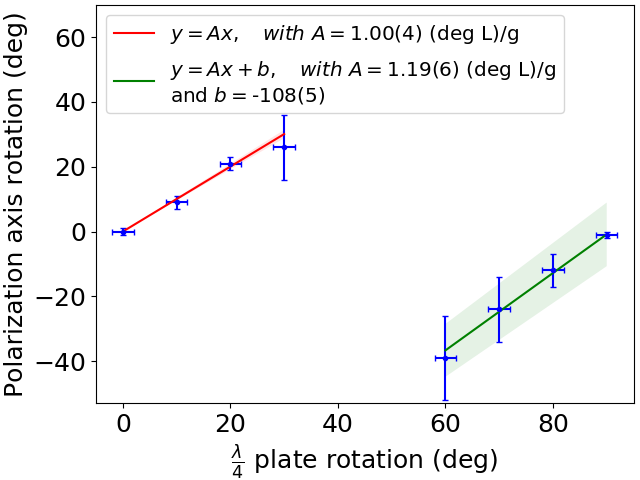
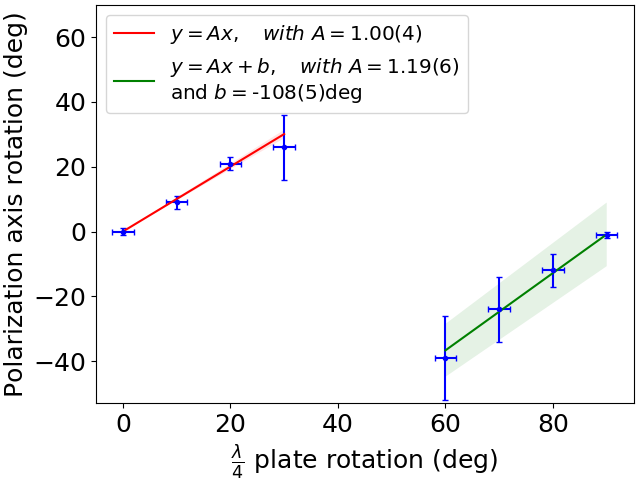
Versuch 8

Changed region(s): [[0.25, 0.125, 0.875, 0.2188], [0.6562, 0.0312, 0.8125, 0.0938]]

diff --git a/Versuch8/scripts/gasthermometer.py b/Versuch8/scripts/gasthermometer.py
@@ -22,8 +22,8 @@ def get_settings():
     
     '''----- sets1: Volume ------------'''
     sets1 = general_sets.clone()
-    sets1.x_label = 'Solution height (dm)'
-    sets1.y_label = 'Polarization axis rotation (deg)'
+    sets1.x_label = r'$t_{gas\ thermometer}$ in $^{\circ}C$'
+    sets1.y_label = r'$t_{mercury\ thermomether}$ in $^{\circ}C$'
     
     '''----- sets2: Concentration -----'''
     sets2 = general_sets.clone()
@@ -33,60 +33,20 @@ def get_settings():
     return sets1, sets2
 
 def linear(B,x):
-    return B[0]*x
+    return B[0]*x + B[1]
 
 def get_data():
-    xls = pd.ExcelFile("../datasets/sugar-corr.xlsx")
-    df1 = pd.read_excel(xls, sheet_name = 'Volume')
-    df2 = pd.read_excel(xls, sheet_name = 'Concentration')
+    xls = pd.ExcelFile("../datasets/gasthermometer.xlsx")
+    df1 = pd.read_excel(xls, sheet_name = 'Heat up')
+    df2 = pd.read_excel(xls, sheet_name = 'Cool down')
     #return df1.drop(df1.index[0]), df2.drop(df2.index[0])
     return df1, df2
 
-def plot_vol(sets, df):
-    l, l_err = 0.1*np.array(df['len in cm']), 0.1*np.array(df['len_err in cm']) #converts from cm to dm
-    rot, rot_err = np.array(df['rot']), np.array(df['rot_err'])
 
-    #ODR fitting
-    linear_model = odrpack.Model(linear)
-    data = odrpack.RealData(l[1:], rot[1:], sx=l_err[1:], sy=rot_err[1:])
-    myodr = odrpack.ODR(data,linear_model, beta0=[3.1])
-    output = myodr.run()
-    params_n, params_s = output.beta, output.sd_beta
-    params = unp.uarray(params_n, params_s)
-    #print (params)
-
-    #popt, cov = curve_fit(ft.linear1, l, rot, sigma = rot_err, absolute_sigma = True)
-    x_fit = np.linspace(min(l), max(l)*1.1, 1000)
-    y_fit = linear(params_n, x_fit)
-    y_fit_up = linear(params_n + params_s, x_fit)
-    y_fit_down = linear(params_n - params_s, x_fit)
-    #y_fit_c = ft.linear1(x_fit, *popt)
-    #y_fit_c_up = ft.linear1(x_fit, *(popt + np.sqrt(cov[0][0])))
-    #y_fit_c_down = ft.linear1(x_fit, *(popt - np.sqrt(cov[0][0])))
+def plot_uncorrected_fit(sets, df):
+    t_th, t_th_err = np.array(df['t_th'])[:-1], np.array(df['t_th_err'])[:-1]
+    t_gas, t_gas_err = np.array(df['t_gas'])[:-1], np.array(df['t_gas_err'])[:-1]
     
-    fmtr = ShorthandFormatter()
-    label_str = fmtr.format('{0:.1u}', params[0])
-    sets.graph_label = ['',r"$y=Ax,\quad with\ A=$" + label_str + " deg/dm",'','']
-    x_axis = [l, x_fit]
-    y_axis = [rot, y_fit]
-    x_axis_err = [l_err,[]]
-    y_axis_err = [rot_err,[]]
-    fig, ax = plot_multi_2(sets, x_axis, y_axis, x_axis_err, y_axis_err)
-    ax.fill_between(x_fit,y_fit_up,y_fit_down, facecolor = "r", alpha = 0.1)
-    #ax.fill_between(x_fit,y_fit_c_up,y_fit_c_down, facecolor = "r", alpha = 0.1)
-
-    #ax.set_xbound(0,16)
-    #ax.set_ybound(0,45)
-    ax.set_xbound(0,1.6)
-    ax.set_ybound(0,45)
-    plt.subplots_adjust(left=0.12, right = 0.99, bottom = 0.14, top = 0.99)
-    #ax.spines['top'].set_visible(False)
-    #ax.spines['right'].set_visible(False)
-
-def plot_conc(sets, df):
-    conc, conc_err = 0.1*np.array(df['conc'])[:-1], 0.1*np.array(df['conc_err'])[:-1] #converts from g/L to g/100ml
-    rot, rot_err = np.array(df['rot'])[:-1], np.array(df['rot_err'])[:-1]
-
     #ODR fitting
     linear_model = odrpack.Model(linear)
     data = odrpack.RealData(conc, rot, sx=conc_err, sy=rot_err)
@@ -123,9 +83,27 @@ def plot_conc(sets, df):
     #ax.spines['top'].set_visible(False)
     #ax.spines['right'].set_visible(False)
 
+def plot_both(sets, df1, df2):
+    t_th_un = zip(list((df1['t_th'])[:-1]) + list((df2['t_th'])[:-1]), list((df1['t_th_err'])[:-1]) + list((df2['t_th_err'])[:-1]))
+    t_gas_un = zip(list((df1['t_gas'])[:-1]) + list((df2['t_gas'])[:-1]), list((df1['t_gas_err'])[:-1]) + list((df2['t_gas_err'])[:-1]))
+    t_th_un.sort(), t_gas_un.sort()
+
+    t_th, t_th_err = zip(*t_th_un)[0], zip(*t_th_un)[1]
+    t_gas, t_gas_err = zip(*t_gas_un)[0], zip(*t_gas_un)[1]
+
+    fig, ax = plot_multi_2(sets, [t_gas,t_gas], [t_th,t_th], [t_gas_err,[]], [t_th_err,[]])
+    ax.plot([0,100],[0,100], 'y--')
+
+def plot_heat_up(sets, df):
+    t_th, t_th_err = np.array(df['t_th'])[:-1], np.array(df2['t_th_err'])[:-1]
+    t_gas, t_gas_err = np.array(df['t_gas'])[:-1], np.array(df2['t_gas_err'])[:-1]
+    
+    fig, ax = plot_multi_2(sets, [t_gas,t_gas], [t_th,t_th], [t_gas_err,[]], [t_th_err,[]])
+    #ax.plot([0,100],[0,100], 'y--')
+
 if __name__ == "__main__":
     sets1, sets2 = get_settings()
     df1, df2 = get_data()
-    plot_vol(sets1, df1)
-    plot_conc(sets2, df2)
+    #plot_uncorrected(sets1, [df1,df2])
+    plot_heat_up(sets1, df1)
     plt.show()

diff --git a/Versuch7/scripts/lambda.py b/Versuch7/scripts/lambda.py
@@ -39,7 +39,7 @@ def linear2(B,x):
     return B[0]*x + B[1]
 
 def get_data():
-    xls = pd.ExcelFile("../datasets/lambda.xlsx")
+    xls = pd.ExcelFile("../datasets/lambda-corr.xlsx")
     df1 = pd.read_excel(xls, sheet_name = 'Lambda2')
     df2 = pd.read_excel(xls, sheet_name = 'Lambda4')
     return df1, df2
@@ -55,7 +55,7 @@ def plot_lambda_2(sets, df):
     data = odrpack.RealData(p, f, sx=p_err, sy=f_err)
     myodr = odrpack.ODR(data,linear_model, beta0=[2])
     output = myodr.run()
-    params_n, params_s = output.beta, output.sd_beta
+    params_n, params_s = output.beta, output.sd_beta*5
     params = unp.uarray(params_n, params_s)
     #print (params)
 
@@ -66,7 +66,7 @@ def plot_lambda_2(sets, df):
     
     fmtr = ShorthandFormatter()
     label_str = fmtr.format('{0:.1u}', params[0])
-    sets.graph_label = ['',r"$y=Ax,\quad with\ A=$" + label_str + " (deg L)/g",'','']
+    sets.graph_label = ['',r"$y=Ax,\quad with\ A=$" + label_str,'','']
     x_axis = [p, x_fit]
     y_axis = [f, y_fit]
     x_axis_err = [p_err,[]]
@@ -117,7 +117,7 @@ def plot_lambda_4(sets, df):
     label1_str = fmtr.format('{0:.1u}', params1[0])
     label2_str1 = fmtr.format('{0:.1u}', params2[0])
     label2_str2 = fmtr.format('{0:.1u}', params2[1])
-    sets.graph_label = ['',r"$y=Ax,\quad with\ A=$" + label1_str + " (deg L)/g", '', r"$y=Ax + b,\quad with\ A=$" + label2_str1 + " (deg L)/g\nand " + r'$b=$' + label2_str2]
+    sets.graph_label = ['',r"$y=Ax,\quad with\ A=$" + label1_str, '', r"$y=Ax + b,\quad with\ A=$" + label2_str1 + "\nand " + r'$b=$' + label2_str2 + 'deg']
     x_axis = [p1, x_fit1, p2, x_fit2]
     y_axis = [f1, y_fit1, f2, y_fit2]
     x_axis_err = [p1_err,[], p2_err, []]
@@ -135,6 +135,6 @@ def plot_lambda_4(sets, df):
 if __name__ == "__main__":
     sets1, sets2 = get_settings()
     df1, df2 = get_data()
-    #plot_lambda_2(sets1, df1)
+    plot_lambda_2(sets1, df1)
     plot_lambda_4(sets2, df2)
     plt.show()

diff --git a/Versuch8/datasets/schadenraum.py b/Versuch8/datasets/schadenraum.py
@@ -1,0 +1,41 @@
+from uncertainties import ufloat
+from uncertainties.umath import *
+from numpy import pi
+
+import sys
+sys.path.insert(0,"../../scripts")
+from myPlot import ShorthandFormatter
+
+'''=================================================================
+Das sind die Masstabe vom Gasthermometer uns schaedlicher Raum.
+Ich hab die Volumina nicht in Excel gerechnet, weil die Fehlerrechnung
+mega muehsam wird und da kann ich es automatisch machen.
+----------------------------------------------------------------
+Die Werte in der Excel Tabelle sind nur als Referenz da,
+aber falls etwas geaendert werden muss, muss man es hier machen.
+====================================================================='''
+
+#Schaedlicher Raum in mm
+l1 = ufloat(44,0.5) #hoehe des ersten senkrechten Teils des Rohres
+l2 = ufloat(177,1) #laenge des wagerechten Teils Rohres
+l3 = ufloat(58.2,0.5) #hoehe des zweiten senkrechten Teils des Rohres, wo die Kugel ist
+dt = ufloat(7,0.05) #externer Duchmesser des Rohres
+st = ufloat(1.5,1) #Breite der Wand des Rohres
+dc = ufloat(13,0.05) #externer Durchmesser des Quecksilber enthaltenden Rohres
+sc = ufloat(1.5,1) #Breite der Wand des Quecksilber enthaltenden Rohres
+h1 = ufloat(20.5,1) #Hoehe des Geraden Teils des Quecksilber enthaldenden Rohres
+h2 = ufloat(13,1) #Hoehe des Kegelfoermigen Teils des Quecksilber enthaltenden Rohres
+vs = pi*((dt/2-st)**2*((l1-st)+(l2-2*st)+(l3-st))+h1*(dc/2-sc)**2+h2/3*(dc/2)**2)
+
+#Kugel in mm
+dk = ufloat(66.7, 0.1) #externer Durchmesser der Kugel
+sk = ufloat(0.5,0.5) #Breite der Wand der Kugel
+vk = pi*4/3*(dk/2-sk)**3
+
+#nur Formatierung
+fmtr = ShorthandFormatter()
+vk_str = fmtr.format('{0:.1u}', vk/1000) #von mm^3 auf ml
+vs_str = fmtr.format('{0:.1u}', vs/1000)
+
+print ("Das Volumen der Kugel ist " + vk_str + ' ml')
+print ("Das Volumen der schaedlichen Raums ist " + vs_str + ' ml')
